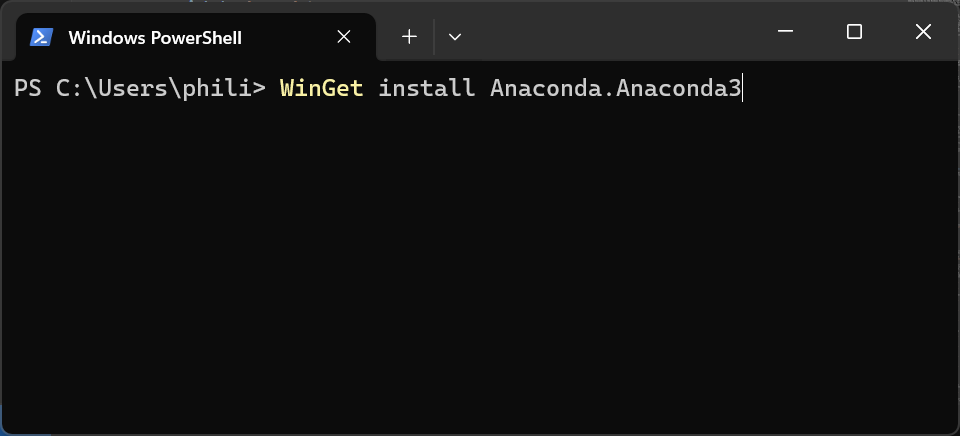
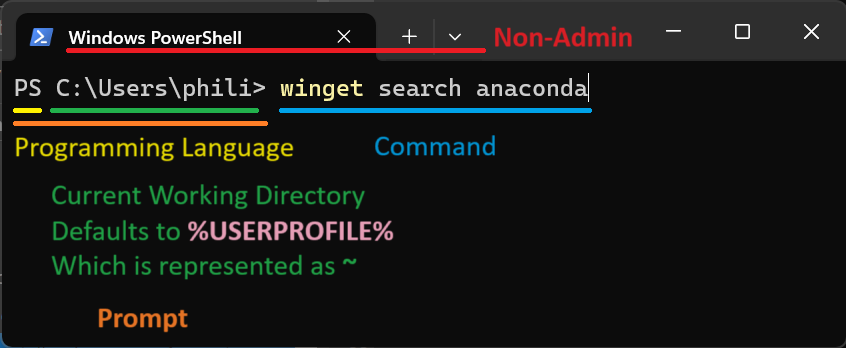
Update

diff --git a/anaconda/windows/.ipynb_checkpoints/install-checkpoint.md b/anaconda/windows/.ipynb_checkpoints/install-checkpoint.md
@@ -28,7 +28,7 @@ The main channel is maintained by the Anaconda company and the conda-forge chann
 
 Miniconda is a stripped down version of Anaconda which has an empty base Python environment with only the dependencies required for the conda package manager.
 
-Note WinGet and conda should not be confused with one another. Both are package managers however WinGet is a general purpose Windows Package Manager that is Windows only. conda is a cross-platform package manager specialised for datascience packages.
+Note winget and conda should not be confused with one another. Both are package managers however WinGet is a general purpose Windows Package Manager that is Windows only. conda is a cross-platform package manager specialised for datascience packages.
 
 ## Removing Old Installations
 
@@ -44,9 +44,7 @@ Before using WinGet, the Microsoft Store, App Installer and Windows Terminal sho
 
 <img src='images_install/img_001.png' alt='img_001' width='450'/>
 
-Note: When WinGet is used with Terminal (Non-Admin) it will install a Program for the Current User. When WinGet is used with Terminal (Admin) it will install a Program for All Users.
-
-Unfortunately the version of Miniconda3 available from WinGet is old. Better results will occur when using the latest installer which can be obtained from the Miniconda website [Miniconda](https://docs.conda.io/projects/miniconda/en/latest/).
+Note: When WinGet is used with Terminal (Non-Admin) it will install a Program for the Current User. When WinGet is used with Terminal (Admin) it will install a Program for All Users which is not recommended for Anaconda.
 
 Right click the Start Menu and select Terminal (Non-Admin):
 
@@ -56,11 +54,58 @@ The Terminal uses the PowerShell programming language by default.
 
 <img src='images_install/img_003.png' alt='img_003' width='350'/>
 
+The Prompt gives details about the programming language and current working directory:
+
 ```powershell
-WinGet install Anaconda.Anaconda3
+PS ~>
 ```
 
+The environmental variable %USERPROFILE% (used within file explorer) maps to the location of your User Profile, in this case C:\\Users\\Phili and this is often represented using ```~``` in PowerShell.
+
+Enter the command:
+
+```powershell
+WinGet search Anaconda
+```
+
+This should return:
+
 <img src='images_install/img_004.png' alt='img_004' width='350'/>
+
+This gives details about the programs available from Anaconda that can be installed on WinGet.
+
+```
+PS ~> winget search anaconda
+Name       Id                  Version     Source
+--------------------------------------------------
+Miniconda3 Anaconda.Miniconda3 py39_4.10.3 winget
+Anaconda3  Anaconda.Anaconda3  2023.09     winget
+PS ~>
+```
+
+Anaconda is up to date. Unfortunately the version of Miniconda3 available from WinGet is outdated and an updated version should be added soon. [Add version: Anaconda.Miniconda3 version py311_23.11.0-2 #138230](https://github.com/microsoft/winget-pkgs/pull/138230). 
+
+In the meantime better results will occur when using the latest installer which can be obtained from the Miniconda website [Miniconda](https://docs.conda.io/projects/miniconda/en/latest/).
+
+Anaconda can be installed using:
+
+```powershell
+winget install Anaconda.Anaconda3
+```
+
+This will install Anaconda. The operation is only complete when a new prompt displays. This will display:
+
+```
+PS ~> winget install Anaconda.Anaconda3
+Found Anaconda3 [Anaconda.Anaconda3] Version 2023.09
+This application is licensed to you by its owner.
+Microsoft is not resposible for, nor does it grant any licenses
+to, third-party packages.
+Successfully verified installer hash
+Starting package install...
+Successfully installed
+PS ~>
+```
 
 The default install location will be in:
 
@@ -70,7 +115,7 @@ The default install location will be in:
 
 <img src='images_install/img_005.png' alt='img_005' width='450'/>
 
-The environmental variable %USERPROFILE% maps to the location of your User Profile, in this case C:\\Users\\Phili
+
 Other Windows Environmental Variables include:
 
 |Environmental Variable|Location
@@ -106,7 +151,7 @@ Select Path and then Edit:
 
 <img src='images_install/img_009.png' alt='img_009' width='350'/>
 
-For Anaconda installed using WinGet the following 5 entries are automatically added. These can optionally be manually added if not present, although a better option is to initialise the Windows Terminal (see below):
+For Anaconda installed using winget the following 5 entries are automatically added. These can optionally be manually added if not present, although a better option is to initialise the Windows Terminal (see below):
 
 ```powershell
 %USERPROFILE%\Anaconda3
@@ -141,9 +186,9 @@ Notice that the Anaconda PowerShell Prompt and Windows Terminal look almost iden
 
 <img src='images_install/img_026.png' alt='img_026' width='350'/>
 
-The subtle difference is the ```(base)``` prefix in the Anaconda PowerShell Prompt which is an indicator meaning the base Python environment is selected. 
+The subtle difference is the title indicated in red. The prompt in orange is almost the same. However the Anaconda PowerShell Prompt prefixes ```(base)``` which is an indicator meaning the base Python environment is selected. 
 
-Under the hood the Anaconda PowerShell Prompt essentially launches the Windows Terminal with a conda activation script. Note in order to run the script it bypasses a PowerShell Execution Policy:
+Under the hood the Anaconda PowerShell Prompt essentially launches the Windows Terminal with a conda activation script. Note in order to run the script it bypasses a PowerShell Execution Policy. This can be seen if the shortcut location to the Anaconda PowerShell Prompt is examined:
 
 ```powershell
 %windir%\System32\WindowsPowerShell\v1.0\powershell.exe -ExecutionPolicy ByPass -NoExit -Command "& '~\anaconda3\shell\condabin\conda-hook.ps1' ; conda activate '~\anaconda3' "
@@ -155,7 +200,7 @@ Initialisation is often required for some IDEs that use the Windows Terminal to 
 
 The Windows Terminal can be initialised directly by using a modified PowerShell Profile that runs the conda activation script. To use this modified profile, the PowerShell Script Execution Policy needs to be set to RemoteSigned which require use of the Anaconda PowerShell Prompt.
 
-To initialise Anaconda in PowerShell open up the Windows Terminal (Admin) and change the execution policy:
+To initialise Anaconda in PowerShell. Right click the Windows 11 Start button and open up the Windows Terminal (Admin) and change the execution policy:
 
 ```powershell
 Set-ExecutionPolicy -ExecutionPolicy RemoteSigned
@@ -204,11 +249,11 @@ modified      ~\OneDrive\Documents\WindowsPowerShell\profile.ps1
 ==> For changes to take effect, close and re-open your current shell. <==
 ```
 
-Close the Windows Terminal (Admin) and open up a new Windows Terminal (Non-Admin). The Windows Terminal will now use the new PowerShell profile profile.ps1 found in Documents. It will show the prefix (base) indicating that the (base) Python environment is selected and use of the Windows Terminal and Anaconda PowerShell Prompt will be equivalent. 
+Close the Windows Terminal (Admin) and open up a new Windows Terminal (Non-Admin). The Windows Terminal will now use the new PowerShell profile profile.ps1 found in Documents. It will show the prefix (base) indicating that the (base) Python environment is selected and use of the Windows Terminal and Anaconda PowerShell Prompt will now be equivalent. 
 
 ## Updating Anaconda
 
-Open the Anaconda PowerShell Prompt or Windows Terminal. If using the Anaconda PowerShell Prompt input:
+Open the Anaconda PowerShell Prompt or Windows Terminal. Input:
 
 ```powershell
 conda deactivate

diff --git a/anaconda/windows/install.md b/anaconda/windows/install.md
@@ -28,7 +28,7 @@ The main channel is maintained by the Anaconda company and the conda-forge chann
 
 Miniconda is a stripped down version of Anaconda which has an empty base Python environment with only the dependencies required for the conda package manager.
 
-Note WinGet and conda should not be confused with one another. Both are package managers however WinGet is a general purpose Windows Package Manager that is Windows only. conda is a cross-platform package manager specialised for datascience packages.
+Note winget and conda should not be confused with one another. Both are package managers however WinGet is a general purpose Windows Package Manager that is Windows only. conda is a cross-platform package manager specialised for datascience packages.
 
 ## Removing Old Installations
 
@@ -44,9 +44,7 @@ Before using WinGet, the Microsoft Store, App Installer and Windows Terminal sho
 
 <img src='images_install/img_001.png' alt='img_001' width='450'/>
 
-Note: When WinGet is used with Terminal (Non-Admin) it will install a Program for the Current User. When WinGet is used with Terminal (Admin) it will install a Program for All Users.
-
-Unfortunately the version of Miniconda3 available from WinGet is old. Better results will occur when using the latest installer which can be obtained from the Miniconda website [Miniconda](https://docs.conda.io/projects/miniconda/en/latest/).
+Note: When WinGet is used with Terminal (Non-Admin) it will install a Program for the Current User. When WinGet is used with Terminal (Admin) it will install a Program for All Users which is not recommended for Anaconda.
 
 Right click the Start Menu and select Terminal (Non-Admin):
 
@@ -56,11 +54,58 @@ The Terminal uses the PowerShell programming language by default.
 
 <img src='images_install/img_003.png' alt='img_003' width='350'/>
 
+The Prompt gives details about the programming language and current working directory:
+
 ```powershell
-WinGet install Anaconda.Anaconda3
+PS ~>
 ```
 
+The environmental variable %USERPROFILE% (used within file explorer) maps to the location of your User Profile, in this case C:\\Users\\Phili and this is often represented using ```~``` in PowerShell.
+
+Enter the command:
+
+```powershell
+WinGet search Anaconda
+```
+
+This should return:
+
 <img src='images_install/img_004.png' alt='img_004' width='350'/>
+
+This gives details about the programs available from Anaconda that can be installed on WinGet.
+
+```
+PS ~> winget search anaconda
+Name       Id                  Version     Source
+--------------------------------------------------
+Miniconda3 Anaconda.Miniconda3 py39_4.10.3 winget
+Anaconda3  Anaconda.Anaconda3  2023.09     winget
+PS ~>
+```
+
+Anaconda is up to date. Unfortunately the version of Miniconda3 available from WinGet is outdated and an updated version should be added soon. [Add version: Anaconda.Miniconda3 version py311_23.11.0-2 #138230](https://github.com/microsoft/winget-pkgs/pull/138230). 
+
+In the meantime better results will occur when using the latest installer which can be obtained from the Miniconda website [Miniconda](https://docs.conda.io/projects/miniconda/en/latest/).
+
+Anaconda can be installed using:
+
+```powershell
+winget install Anaconda.Anaconda3
+```
+
+This will install Anaconda. The operation is only complete when a new prompt displays. This will display:
+
+```
+PS ~> winget install Anaconda.Anaconda3
+Found Anaconda3 [Anaconda.Anaconda3] Version 2023.09
+This application is licensed to you by its owner.
+Microsoft is not resposible for, nor does it grant any licenses
+to, third-party packages.
+Successfully verified installer hash
+Starting package install...
+Successfully installed
+PS ~>
+```
 
 The default install location will be in:
 
@@ -70,7 +115,7 @@ The default install location will be in:
 
 <img src='images_install/img_005.png' alt='img_005' width='450'/>
 
-The environmental variable %USERPROFILE% maps to the location of your User Profile, in this case C:\\Users\\Phili
+
 Other Windows Environmental Variables include:
 
 |Environmental Variable|Location
@@ -106,7 +151,7 @@ Select Path and then Edit:
 
 <img src='images_install/img_009.png' alt='img_009' width='350'/>
 
-For Anaconda installed using WinGet the following 5 entries are automatically added. These can optionally be manually added if not present, although a better option is to initialise the Windows Terminal (see below):
+For Anaconda installed using winget the following 5 entries are automatically added. These can optionally be manually added if not present, although a better option is to initialise the Windows Terminal (see below):
 
 ```powershell
 %USERPROFILE%\Anaconda3
@@ -141,9 +186,9 @@ Notice that the Anaconda PowerShell Prompt and Windows Terminal look almost iden
 
 <img src='images_install/img_026.png' alt='img_026' width='350'/>
 
-The subtle difference is the ```(base)``` prefix in the Anaconda PowerShell Prompt which is an indicator meaning the base Python environment is selected. 
+The subtle difference is the title indicated in red. The prompt in orange is almost the same. However the Anaconda PowerShell Prompt prefixes ```(base)``` which is an indicator meaning the base Python environment is selected. 
 
-Under the hood the Anaconda PowerShell Prompt essentially launches the Windows Terminal with a conda activation script. Note in order to run the script it bypasses a PowerShell Execution Policy:
+Under the hood the Anaconda PowerShell Prompt essentially launches the Windows Terminal with a conda activation script. Note in order to run the script it bypasses a PowerShell Execution Policy. This can be seen if the shortcut location to the Anaconda PowerShell Prompt is examined:
 
 ```powershell
 %windir%\System32\WindowsPowerShell\v1.0\powershell.exe -ExecutionPolicy ByPass -NoExit -Command "& '~\anaconda3\shell\condabin\conda-hook.ps1' ; conda activate '~\anaconda3' "
@@ -155,7 +200,7 @@ Initialisation is often required for some IDEs that use the Windows Terminal to 
 
 The Windows Terminal can be initialised directly by using a modified PowerShell Profile that runs the conda activation script. To use this modified profile, the PowerShell Script Execution Policy needs to be set to RemoteSigned which require use of the Anaconda PowerShell Prompt.
 
-To initialise Anaconda in PowerShell open up the Windows Terminal (Admin) and change the execution policy:
+To initialise Anaconda in PowerShell. Right click the Windows 11 Start button and open up the Windows Terminal (Admin) and change the execution policy:
 
 ```powershell
 Set-ExecutionPolicy -ExecutionPolicy RemoteSigned
@@ -204,11 +249,11 @@ modified      ~\OneDrive\Documents\WindowsPowerShell\profile.ps1
 ==> For changes to take effect, close and re-open your current shell. <==
 ```
 
-Close the Windows Terminal (Admin) and open up a new Windows Terminal (Non-Admin). The Windows Terminal will now use the new PowerShell profile profile.ps1 found in Documents. It will show the prefix (base) indicating that the (base) Python environment is selected and use of the Windows Terminal and Anaconda PowerShell Prompt will be equivalent. 
+Close the Windows Terminal (Admin) and open up a new Windows Terminal (Non-Admin). The Windows Terminal will now use the new PowerShell profile profile.ps1 found in Documents. It will show the prefix (base) indicating that the (base) Python environment is selected and use of the Windows Terminal and Anaconda PowerShell Prompt will now be equivalent. 
 
 ## Updating Anaconda
 
-Open the Anaconda PowerShell Prompt or Windows Terminal. If using the Anaconda PowerShell Prompt input:
+Open the Anaconda PowerShell Prompt or Windows Terminal. Input:
 
 ```powershell
 conda deactivate
